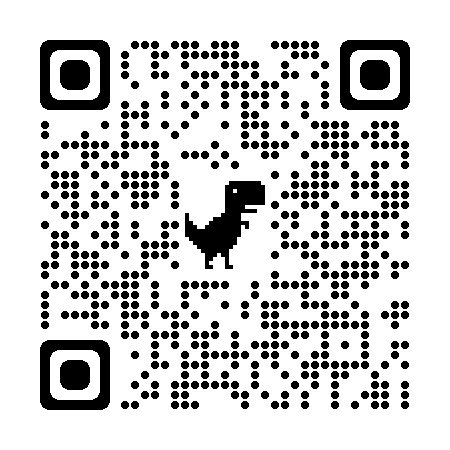
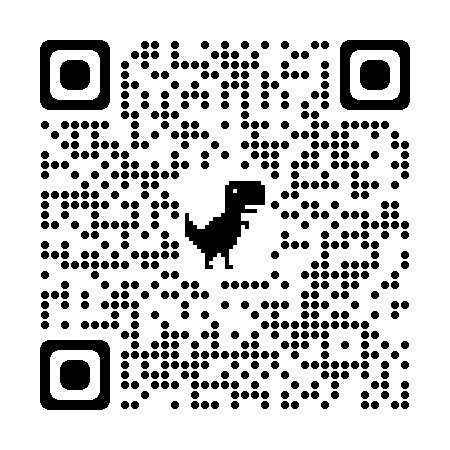
Added stimbs Images

diff --git a/public/assets/projects/stimb/index.ts b/public/assets/projects/stimb/index.ts
@@ -1,0 +1,30 @@
+// Imports
+import cover from "./cover.jpg";
+import home from "./home.jpg";
+import about from "./about.jpg";
+import galery from "./galery.jpg";
+import responsiveness from "./responsiveness.jpg";
+import contact from "./contact.jpg";
+import modernDesign from "./modernDesign.jpg";
+import products from "./products.jpg";
+import product from "./product.jpg";
+import services from "./services.jpg";
+import qr from "./qr.png";
+
+// Exporter
+const Images = {
+  cover,
+  features: {
+    home,
+    about,
+    galery,
+    responsiveness,
+    contact,
+    modernDesign,
+    product,
+    products,
+    services,
+  },
+  qr,
+};
+export default Images;
